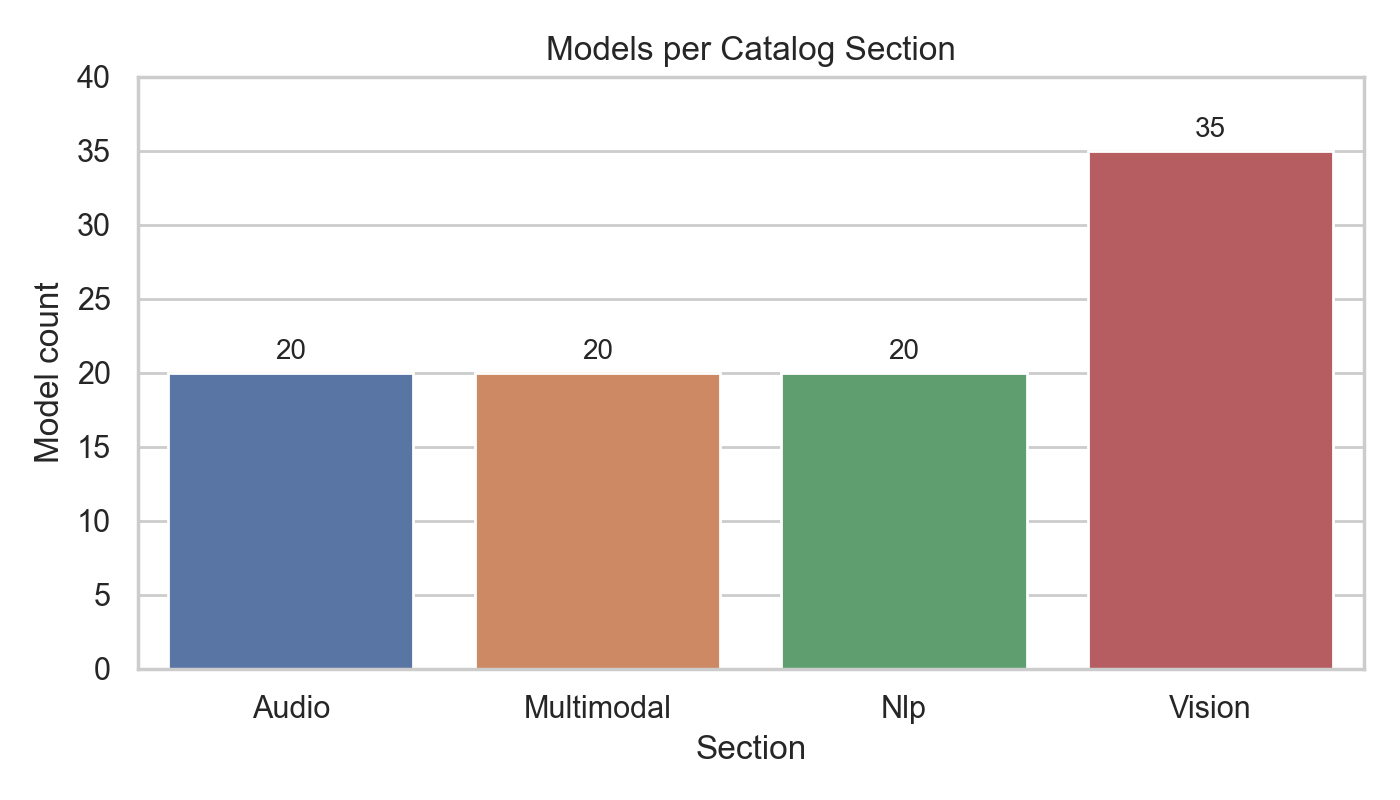
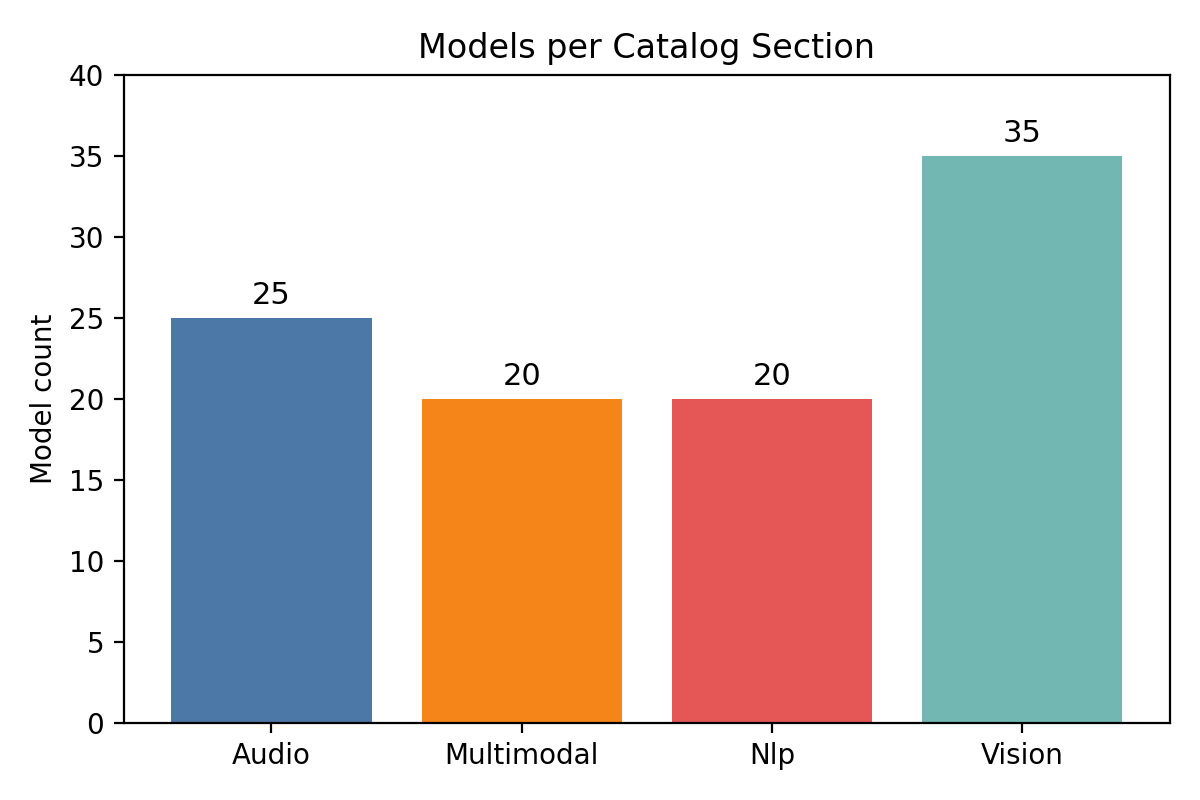
asr

diff --git a/notebooks/audio/audio_catalog.md b/notebooks/audio/audio_catalog.md
@@ -22,5 +22,10 @@
 | [XTTS v2](https://huggingface.co/coqui/XTTS-v2)<br><sub>coqui/XTTS-v2</sub> | Multi-speaker TTS | TTS, torch | CPU/GPU | 16–32GB | Check Coqui license; needs ffmpeg | audio/audio_notebooks/audio-18-xtts-v2.ipynb | 🚀 [Audio augmentation & features (librosa)](https://colab.research.google.com/github/musikalkemist/AudioSignalProcessingForML/blob/master/03-Audio-Data-Augmentation.ipynb) |
 | [VITS LJSpeech](https://huggingface.co/espnet/kan-bayashi_ljspeech_vits)<br><sub>espnet/kan-bayashi_ljspeech_vits</sub> | Fast TTS baseline | espnet, torchaudio | CPU/GPU | 8–16GB | Warm up for better quality; MIT | audio/audio_notebooks/audio-19-vits-ljspeech.ipynb | 🚀 [torchaudio pipeline tutorial](https://colab.research.google.com/github/pytorch/tutorials/blob/main/beginner_source/audio_classifier_tutorial.ipynb) |
 | [MMS TTS EN](https://huggingface.co/facebook/mms-tts-eng)<br><sub>facebook/mms-tts-eng</sub> | Multilingual MMS TTS | transformers, torchaudio | CPU/GPU | 8–16GB | License review: MMS; add phoneme note | audio/audio_notebooks/audio-20-mms-tts-en.ipynb | 🚀 [Audio to embeddings (CLAP/LAION)](https://colab.research.google.com/github/LAION-AI/CLAP/blob/main/notebooks/CLAP_demo.ipynb) |
+| [Whisper Large V3](https://huggingface.co/openai/whisper-large-v3)<br><sub>openai/whisper-large-v3</sub> | Flagship multilingual ASR | transformers, torchaudio, soundfile | GPU | 24–48GB | Requires segmented decoding + flash attention | audio/audio_notebooks/audio-21-whisper-large-v3.ipynb | 🚀 [Whisper large inference tips](https://huggingface.co/blog/whisper) |
+| [Whisper Large V3 Turbo](https://huggingface.co/openai/whisper-large-v3-turbo)<br><sub>openai/whisper-large-v3-turbo</sub> | Low-latency Whisper for live captioning | transformers, torchaudio, soundfile | GPU | 12–24GB | Optimized for <1s latency; pair with quantized weights | audio/audio_notebooks/audio-22-whisper-large-v3-turbo.ipynb | 🚀 [HF Whisper streaming example](https://huggingface.co/blog/whisper-streaming) |
+| [Pyannote Speaker Diarization](https://huggingface.co/pyannote/speaker-diarization-3.1)<br><sub>pyannote/speaker-diarization-3.1</sub> | Speaker diarization + diarization-aware ASR | pyannote.audio, torch | GPU | 12–24GB | Needs SAD + embedding checkpoints pulled via HF Hub | audio/audio_notebooks/audio-23-pyannote-diarization.ipynb | 🚀 [Pyannote diarization tutorial](https://huggingface.co/pyannote) |
+| [Pyannote Voice Activity](https://huggingface.co/pyannote/voice-activity-detection)<br><sub>pyannote/voice-activity-detection</sub> | Voice activity detection front-end | pyannote.audio, torch | CPU/GPU | 4–8GB | Great for gating streaming Whisper pipelines | audio/audio_notebooks/audio-24-pyannote-vad.ipynb | 🚀 [Pyannote VAD notebook](https://huggingface.co/pyannote/voice-activity-detection) |
+| [MMS Forced Aligner](https://huggingface.co/MahmoudAshraf/mms-300m-1130-forced-aligner)<br><sub>MahmoudAshraf/mms-300m-1130-forced-aligner</sub> | Multilingual speech-text forced alignment | transformers, torchaudio | GPU | 12–24GB | Supports 100+ languages; pre-download MMS tokenizer weights | audio/audio_notebooks/audio-25-mms-300m-aligner.ipynb | 🚀 [Meta MMS forced alignment guide](https://huggingface.co/meta-llama) |
 
 _Source of truth: `/meta/notebook_catalog.csv`._

diff --git a/README.md b/README.md
@@ -99,12 +99,12 @@ Open any notebook from `/notebooks` in Jupyter, VS Code, or Colab (badges inside
 ## 📒 Notebook Catalog (80+ models)
 Developer-ready shortlist of Hugging Face models we plan to ship as notebooks. Full catalog refreshes from `/meta/notebook_catalog.csv`.
 
-**Current coverage:** 95 models total  
+**Current coverage:** 100 models total  
 ![Model distribution by section](assets/model_distribution.png)
 
 | Section | Models |
 |---|---|
-| Audio | 20 |
+| Audio | 25 |
 | Multimodal | 20 |
 | NLP | 20 |
 | Vision | 35 |
@@ -147,7 +147,7 @@ Developer-ready shortlist of Hugging Face models we plan to ship as notebooks. F
 | **VISION** · [ResNet-50](https://huggingface.co/microsoft/resnet-50) | Classic classification transfer | torchvision, timm | CPU/GPU/MLX | 4–8GB |
 | **VISION** · [CLIP ViT-B LAION](https://huggingface.co/laion/CLIP-ViT-B-32-laion2B-s34B-b79K) | Zero-shot retrieval large corpus | transformers | CPU/GPU | 4–8GB |
 
-[View the full 95-model catalog →](./notebooks/catalog.md)
+[View the full 100-model catalog →](./notebooks/catalog.md)
 <!-- CATALOG:END -->
 
 ### Who It's For
